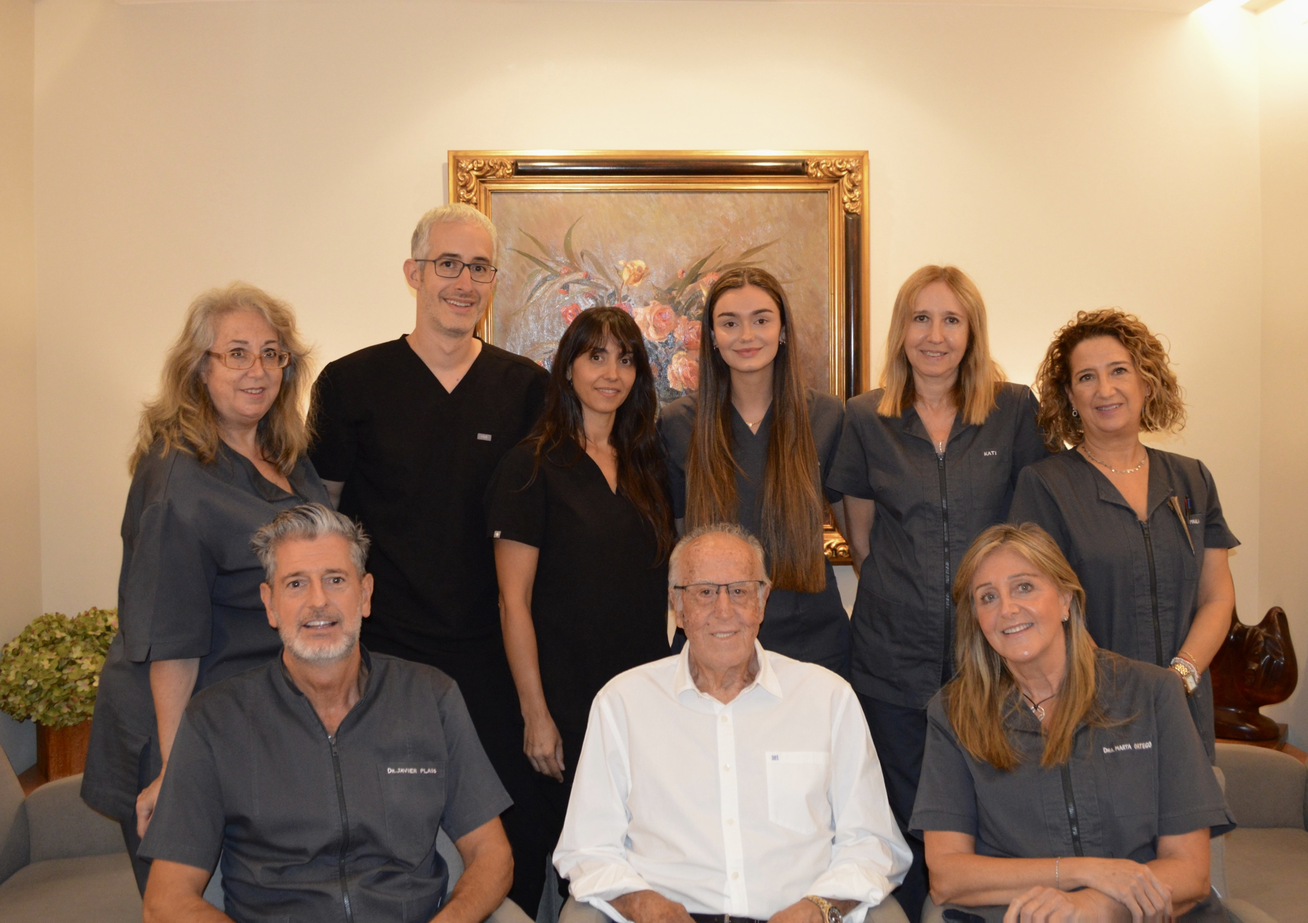
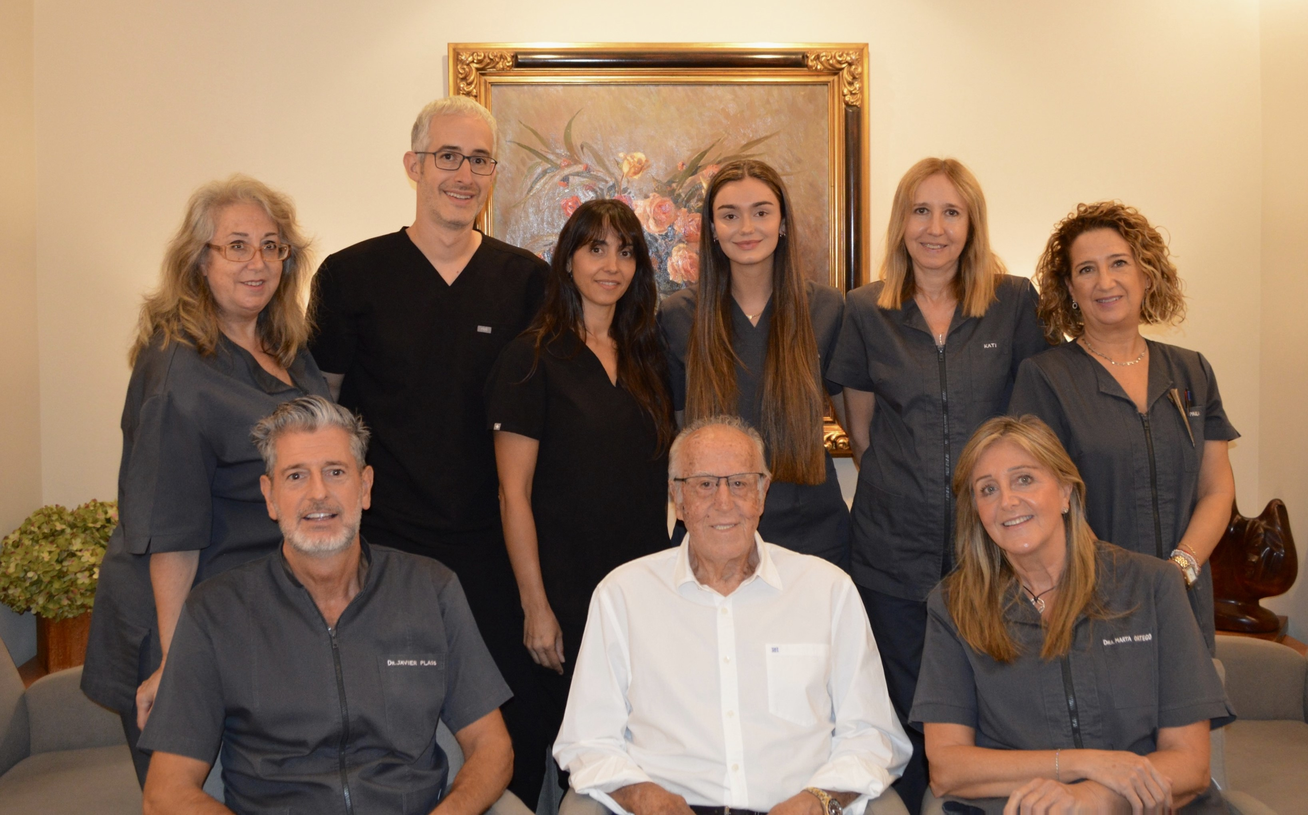
meating

diff --git a/css/style.css b/css/style.css
@@ -5,7 +5,7 @@ body {
     color: #464646;
     padding: 0;
     margin: 0;
-    margin-left: 12vw;
+    margin-left: 15vw;
 }
 
 p {
@@ -18,7 +18,7 @@ p {
     justify-content: space-between;
     border-bottom: 1px solid #464646;
     margin: 0vh 5vw;
-    padding: 2vh 0;
+    padding: 5vh 0;
     align-items: center; /* Vertically centers content */
 }
 
@@ -27,7 +27,8 @@ p {
     margin: 0; /* Remove default margin */
     display: flex; /* Display items in a horizontal row */
     gap: 2vw; /* Adds space between each item */
-    font-size: 1.3vw;
+    font-size: 1.5vw;
+    font-weight: 900;
 }
 
 #contact-info li {
@@ -47,6 +48,7 @@ p {
     border: none;
     cursor: pointer;
     font-size: 1vw;
+    font-weight: 900;
 }
 
 .dropdown-content {
@@ -84,7 +86,7 @@ p {
     position: fixed;
     top: 0;
     left: 0;
-    width: 12vw;
+    width: 15vw;
     height: 100%;
     background-color: #333;
     color: white;
@@ -102,7 +104,7 @@ p {
     color: white;
     padding: 15px 20px;
     text-decoration: none;
-    font-size: 18px;
+    font-size: 1.5vw;
 }
 
 .sidebar a:hover {
@@ -203,6 +205,7 @@ p {
 .company-info h3 {
     font-weight: bold;
     margin-bottom: 15px;
+    font-size: 2.2vw;
 }
 
 .footer-section ul {
@@ -238,30 +241,50 @@ p {
 /* INICIO */
 
 #blog-text {
-    text-indent: 5vw;
+    position: relative;                  /* Position context for pseudo-element */
+    background-image: url(../images/installations/image2.jpeg);
+    background-size: cover;
+    background-position: center;
+    background-repeat: no-repeat;
+    filter: brightness(120%);
     text-align: justify;
+    padding: 20vh 20vw;
+    color: #fff;                         /* Change text color to white */
+    font-weight: 700;                    /* Increase font weight for better readability */
+}
+
+/* Add a semi-transparent overlay */
+#blog-text::before {
+    content: "";
+    position: absolute;
+    top: 0;
+    left: 0;
+    right: 0;
+    bottom: 0;
+    background-color: rgba(0, 0, 0, 0.5); /* Dark overlay with 50% opacity */
+    z-index: 0;                           /* Position behind the text */
 }
 
 #blog-text p {
-    font-size: 1.5vw;
-    padding: 5vh 20vw;
+    background-color: rgba(255, 255, 255, 0.6);  /* Dark background with 60% opacity */
+    padding: 5vw;
+    position: relative;
+    z-index: 1;                           /* Position text above overlay */
+    padding: 1vh 0;                       /* Add padding around paragraphs */
+    color: #333;
 }
 
-#blog-text img {
-    width: 100%; 
-    height: 50vh;
-    object-fit: cover;
-}
 
 /* EQUIPO */
 
 #team-photo {
     display: flex;
+    margin-top: 10vh;
     align-items: center;
 }
 
 #team-photo img {
-    width: 40vw;
+    width: 55vw;
     border-radius: 10px;
 }
 
@@ -275,7 +298,7 @@ p {
 #profiles-container {
     display: flex;
     justify-content: center;
-    margin: auto 20vw;
+    margin: auto 10vw;
 }
 
 .profile-container {

diff --git a/header.js b/header.js
@@ -3,18 +3,17 @@ document.addEventListener('DOMContentLoaded', function () {
     <div id="useful">
         <div id="contact-info">
             <ul>
-                <li>C/ Madrazo 141. pral 1ª</li>
-                <li>08021, Barcelona</li>
-                <li>+93 209 71 67 / +34 646 272 974</li>
+                <li>C/ Madrazo 141. pral 1ª, 08021, Barcelona</li>
+                <li>+34 932 097 167 / +34 646 272 974</li>
                 <li>dentalortego@gmail.com</li>
             </ul>
         </div>
         <div class="dropdown">
-            <button class="dropdown-button">Languages</button>
+            <button class="dropdown-button">ESP<br>CAT<br>ENG</button>
             <div class="dropdown-content">
-                <a href="../en/index.html">English</a>
                 <a href="../es/index.html">Español</a>
                 <a href="../ca/index.html">Català</a>
+                <a href="../en/index.html">English</a>                
             </div>
         </div>
     </div>
@@ -22,7 +21,7 @@ document.addEventListener('DOMContentLoaded', function () {
     <div id="logo-title">
         <img style="width: 200px; margin: 0 140px;" src="../images/logo2.png" alt="Logo">
         <h1 style="font-size: 35px;">
-            <span style="font-size: 45px;">C</span>L<span style="font-size: 29px;">Í</span>NICA 
+            <span style="font-size: 45px;">C</span>L<span style="font-size: 35px;">Í</span>NICA 
             <span style="font-size: 45px;">D</span>ENTAL <span style="font-size: 45px;">O</span>RTEGO
         </h1>
     </div>
@@ -36,7 +35,7 @@ document.addEventListener('DOMContentLoaded', function () {
         <a href="https://wa.me/34646272974" target="_blank" class="floating-button whatsapp">
             <img src="../images/whatsapp-logo.png" style="height: 22px;"></img>
         </a>
-        <a href="mailto:cpnicadentalortego@gmail.com" class="floating-button email">
+        <a href="mailto:clinicadentalortego@gmail.com" class="floating-button email">
             ✉
         </a>
 

diff --git a/es/index.html b/es/index.html
@@ -27,17 +27,16 @@
     </div>
 
     <div id="blog-text">
-        <p>La Clínica Dental Ortego fue fundada en 1964 en Barcelona, en el barrio de Galvany (Sarrià-Sant Gervasi), por
-            el Dr. Mariano Ortego Rivero. Desde entonces, con profesionalidad y dedicación, nuestra clínica ha crecido y
-            se ha consolidado como un referente en el cuidado de la salud bucodental.</p>
-
-        <img src="../images/installations/image1.jpeg" alt="Imagen de la clínica">
         
-        <p>Hoy en día, con tres generaciones de odontólogos, seguimos siendo una clínica familiar cuya prioridad es la
-            ética profesional, la prevención y el cuidado de la salud bucodental, así como ofrecer un trato
-            personalizado y cercano a nuestros pacientes. Queremos que nuestros pacientes confíen en nosotros y tengan
-            la seguridad de que el plan de tratamiento personalizado que les ofrecemos es, sin duda, la mejor opción
-            para ellos.</p>
+            <p>La Clínica Dental Ortego fue fundada en 1964 en Barcelona, en el barrio de Galvany (Sarrià-Sant Gervasi), por
+                el Dr. Mariano Ortego Rivero. Desde entonces, con profesionalidad y dedicación, nuestra clínica ha crecido y
+                se ha consolidado como un referente en el cuidado de la salud bucodental.</p>
+
+            <p>Hoy en día, con tres generaciones de odontólogos, seguimos siendo una clínica familiar cuya prioridad es la
+                ética profesional, la prevención y el cuidado de la salud bucodental, así como ofrecer un trato
+                personalizado y cercano a nuestros pacientes. Queremos que nuestros pacientes confíen en nosotros y tengan
+                la seguridad de que el plan de tratamiento personalizado que les ofrecemos es, sin duda, la mejor opción
+                para ellos.</p>
     </div>
 
 

diff --git a/es/contacto.html b/es/contacto.html
@@ -27,8 +27,8 @@
             <div class="info-block">
                 <h3>Clínica Dental Ortego</h3>
                 <p class="icon">📍 C/ Madrazo 141. pral 1ª - Sarrià Sant-Gervasi</p>
-                <p class="icon">📞 +34 93 209 71 67</p>
-                <p class="icon">📱 +34 646 272 974 </p>
+                <p class="icon">☎ +34 932 097 167</p>
+                <p class="icon">📞 +34 646 272 974 </p>
             </div>
             <div class="info-block">
                 <h3>Parking Cercano</h3>

diff --git a/es/footer.js b/es/footer.js
@@ -42,7 +42,7 @@ let appFooter = `
                 <ul>
                     <li>📍 C/ Madrazo 141. pral 1ª</li>
                     <li>✉ clinicadentalortego@gmail.com</li>
-                    <li>☎ +93 209 71 67</li>
+                    <li>☎ +34 932 097 167</li>
                     <li>📞 +34 646 272 974</li>
                 </ul>
             </div>
